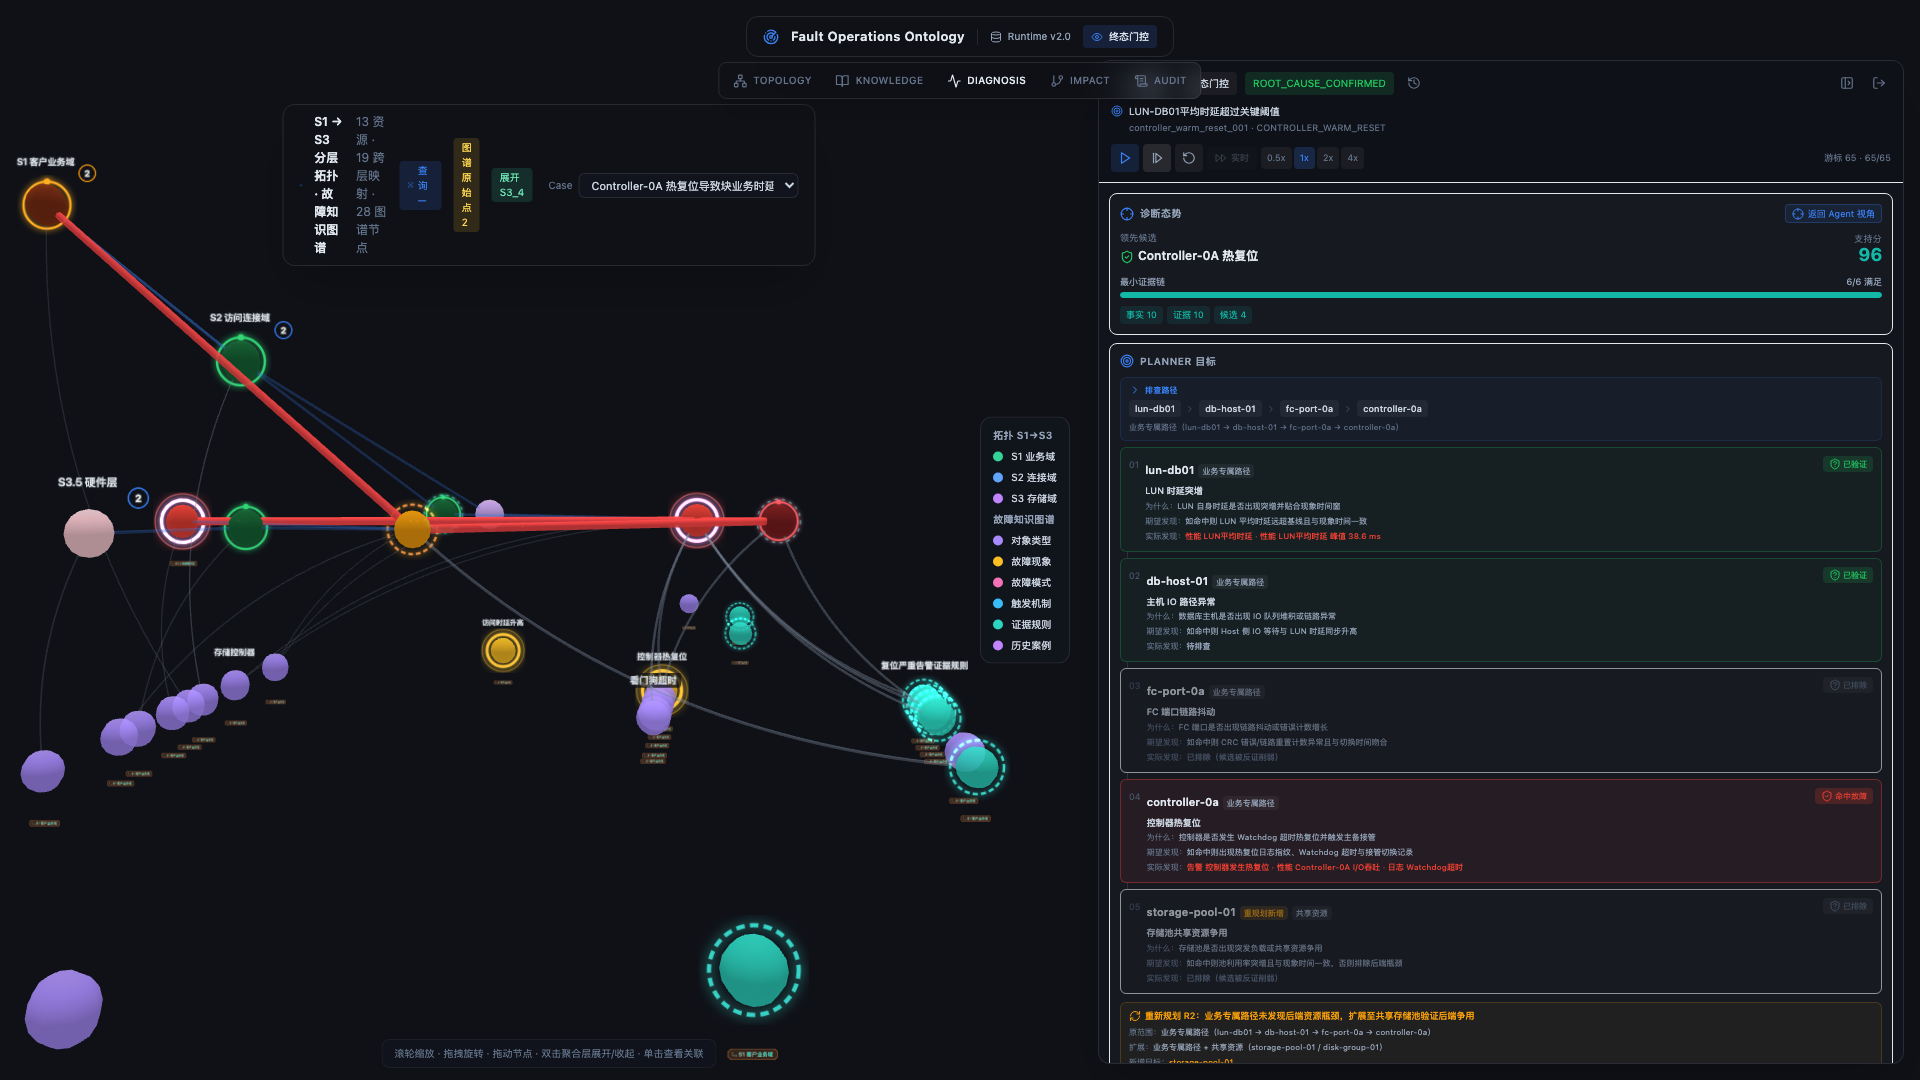
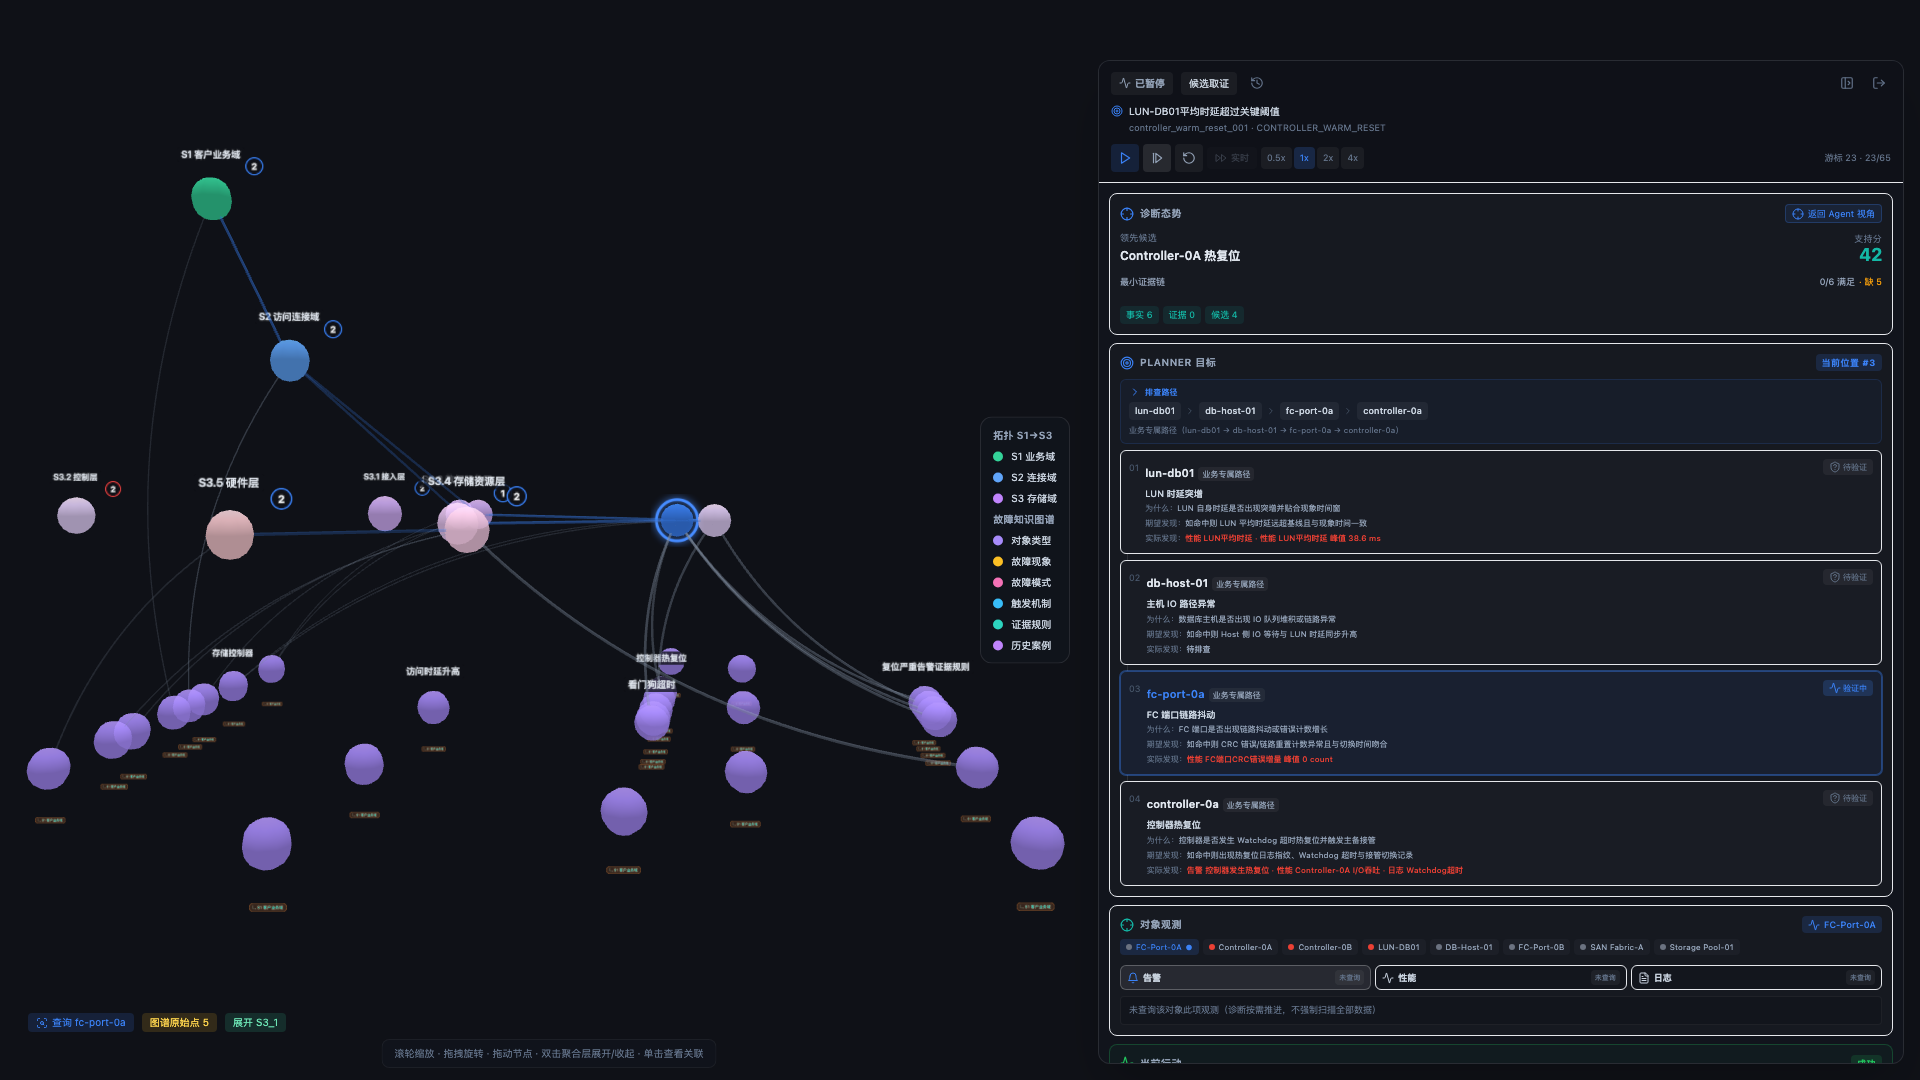
feat: issue#7 精简首屏 - 删除顶部三控件，画布顶到顶边
- 删除 Fault Operations Ontology 标题栏（ontology-header）+ 阶段标签
- 删除 Ontology Lens 五透镜切换器（LensSwitcher 组件一并移除）
- 删除画布顶部信息条 + Case 下拉；Case 改由诊断自动选择
- 扫描徽标移至左下角；画布容器顶到顶边
- 验收截图存 business-acceptance/issue7-topbar/ + e2e/issue7-topbar-clean.mjs

diff --git a/src/components/Layered3DCanvas.tsx b/src/components/Layered3DCanvas.tsx
@@ -1,6 +1,6 @@
 import { useEffect, useMemo, useRef } from 'react'
 import * as THREE from 'three'
-import { Layers, ScanSearch } from 'lucide-react'
+import { ScanSearch } from 'lucide-react'
 
 import { LensId } from '../../schemas'
 import { KNOWLEDGE_LAYERS } from '@/lib/knowledge-plane'
@@ -101,12 +101,6 @@ const SCAN_COLOR = '#22d3ee'
 export interface Layered3DCanvasProps {
   /** 分层拓扑模型（buildLayeredModelData 产物，任意 Case）。 */
   model: LayeredModelData
-  /** 当前分层 Case id。 */
-  caseId: string
-  /** 可选 Case 列表（名称取自 manifest）。 */
-  cases: Array<{ caseId: string; name: string }>
-  /** 切换 Case：重建模型 + 重置展开。 */
-  onCaseChange: (caseId: string) => void
   /** 层展开状态（域/子层 code → expanded）。 */
   expandedLayers: Partial<Record<TopoLayerCode, boolean>>
   /** 点击聚合头/双击聚合节点切换展开。 */
@@ -148,9 +142,6 @@ export interface Layered3DCanvasProps {
 export default function Layered3DCanvas(props: Layered3DCanvasProps) {
   const {
     model,
-    caseId,
-    cases,
-    onCaseChange,
     expandedLayers,
     onToggleLayer,
     aggregateContext,
@@ -655,9 +646,8 @@ export default function Layered3DCanvas(props: Layered3DCanvasProps) {
     // eslint-disable-next-line react-hooks/exhaustive-deps
   }, [])
 
-  // --- header counts ---------------------------------------------------------
+  // --- legend colors ---------------------------------------------------------
 
-  const kgCount = graph.nodes.filter((n) => n.plane === 'knowledge').length
   const layerColors = [
     { code: 'S1', name: 'S1 业务域', color: '#34d399' },
     { code: 'S2', name: 'S2 连接域', color: '#60a5fa' },
@@ -675,57 +665,34 @@ export default function Layered3DCanvas(props: Layered3DCanvasProps) {
       {/* 3D 力导向画布 */}
       <div ref={containerRef} className="absolute inset-0" />
 
-      {/* 信息条：标题 + 统计 + Case 切换 */}
-      <div className="pointer-events-none absolute left-1/2 top-[104px] z-10 -translate-x-1/2">
-        <div className="pointer-events-auto flex items-center gap-3 rounded-xl border border-white/10 bg-[#11141c]/92 px-4 py-2 text-[12px] text-[#94a3b8] shadow-2xl backdrop-blur-md">
-          <Layers className="h-4 w-4 text-status-active" />
-          <span className="font-semibold text-[#e2e8f0]">S1 → S3 分层拓扑 · 故障知识图谱</span>
-          <span className="hidden text-[#64748b] md:inline">
-            {model.nodes.length} 资源 · {graph.crossLinks.length} 跨层映射 · {kgCount} 图谱节点
+      {/* 诊断扫描态（issue#6 阶段C / issue#7 C3）：聚焦查询对象 + 图谱原始点 + 自动展开层。
+          首屏顶部控件已精简，扫描徽标移至左下角，不占画布顶部空间。 */}
+      {diagnosisScan && (
+        <div className="pointer-events-none absolute bottom-12 left-3 z-10 flex items-center gap-2">
+          <span
+            data-testid="scan-query"
+            className="flex items-center gap-1 rounded bg-status-active/15 px-2 py-0.5 text-[10px] text-status-active"
+          >
+            <ScanSearch className="h-3 w-3" />
+            查询 {diagnosisScan.active_query_object_id ?? '—'}
           </span>
-          {diagnosisScan && (
-            <>
-              <span
-                data-testid="scan-query"
-                className="flex items-center gap-1 rounded bg-status-active/15 px-2 py-0.5 text-[10px] text-status-active"
-              >
-                <ScanSearch className="h-3 w-3" />
-                查询 {diagnosisScan.active_query_object_id ?? '—'}
-              </span>
-              <span
-                data-testid="scan-kg"
-                className="flex items-center gap-1 rounded bg-amber-400/15 px-2 py-0.5 text-[10px] text-amber-300"
-              >
-                图谱原始点 {diagnosisScan.graph_entry_anchors.length}
-              </span>
-              {autoExpandedLayerRef.current && (
-                <span
-                  data-testid="scan-expand"
-                  className="flex items-center gap-1 rounded bg-emerald-400/15 px-2 py-0.5 text-[10px] text-emerald-300"
-                  title="排查推进时自动展开的聚合层"
-                >
-                  展开 {autoExpandedLayerRef.current}
-                </span>
-              )}
-            </>
-          )}
-          <label className="ml-1 flex items-center gap-1.5">
-            <span className="text-[10px] text-[#64748b]">Case</span>
-            <select
-              value={caseId}
-              onChange={(event) => onCaseChange(event.target.value)}
-              aria-label="分层拓扑 Case"
-              className="max-w-[220px] cursor-pointer rounded-md border border-white/10 bg-[#11141c] px-2 py-1 text-[11px] text-[#cbd5e1] outline-none focus:border-status-active/60"
+          <span
+            data-testid="scan-kg"
+            className="flex items-center gap-1 rounded bg-amber-400/15 px-2 py-0.5 text-[10px] text-amber-300"
+          >
+            图谱原始点 {diagnosisScan.graph_entry_anchors.length}
+          </span>
+          {autoExpandedLayerRef.current && (
+            <span
+              data-testid="scan-expand"
+              className="flex items-center gap-1 rounded bg-emerald-400/15 px-2 py-0.5 text-[10px] text-emerald-300"
+              title="排查推进时自动展开的聚合层"
             >
-              {cases.map((c) => (
-                <option key={c.caseId} value={c.caseId}>
-                  {c.name}
-                </option>
-              ))}
-            </select>
-          </label>
+              展开 {autoExpandedLayerRef.current}
+            </span>
+          )}
         </div>
-      </div>
+      )}
 
       {/* 交互提示 */}
       <div className="pointer-events-none absolute bottom-3 left-1/2 z-10 -translate-x-1/2 rounded-lg border border-white/5 bg-[#11141c]/70 px-3 py-1.5 text-[10px] text-[#64748b] backdrop-blur-sm">

diff --git a/src/App.tsx b/src/App.tsx
@@ -1,12 +1,11 @@
 import { useCallback, useEffect, useMemo, useRef, useState } from 'react'
-import { AlertTriangle, Database, Eye, Radar, X } from 'lucide-react'
+import { AlertTriangle, Radar, X } from 'lucide-react'
 
 import DiagnosisEntryButton, {
   type DiagnosisEntryPayload,
 } from '@/components/DiagnosisEntryButton'
 import Layered3DCanvas from '@/components/Layered3DCanvas'
 import LuiPanel from '@/components/LuiPanel'
-import LensSwitcher from '@/components/LensSwitcher'
 import ModelNavigator, {
   type LayerVisibility,
 } from '@/components/ModelNavigator'
@@ -27,18 +26,7 @@ import {
   type DiagnosisRuntime,
 } from './v2'
 
-const DATA_VERSION = '2.0'
 const EVENT_CADENCE_MS = 700
-
-/** 分层视图可选 Case（3 基线 + 分层演示），名称取自 manifest。 */
-const LAYERED_CASES = listCases().filter((c) =>
-  [
-    'layered_topology_demo_001',
-    'controller_warm_reset_001',
-    'noisy_neighbor_io_contention_001',
-    'remote_replication_lag_001',
-  ].includes(c.caseId),
-)
 
 // ─────────────────────────────────────────────────────────────────────────────
 // App
@@ -216,15 +204,6 @@ export default function App() {
     return () => window.clearTimeout(timer)
   }, [runtime, isPlaying, playbackSpeed])
 
-  const handleLensChange = (lens: LensId) => {
-    setActiveLens(lens)
-    setAroundRootId(null)
-    setObjectSetFilter(false)
-    if (lens === LensId.TOPOLOGY) setActivePreset('TOPOLOGY_ONLY')
-    else if (lens === LensId.KNOWLEDGE) setActivePreset('KNOWLEDGE_ONLY')
-    else setActivePreset('OVERVIEW')
-  }
-
   const startSession = (caseId: string, note: string | null) => {
     try {
       const created = createDiagnosisRuntime(caseId).advance()
@@ -346,12 +325,6 @@ export default function App() {
     setExpandedLayers((cur) => ({ ...cur, [code]: !cur[code] }))
   }
 
-  // 分层视图 Case 切换：重建分层模型并重置展开状态（issue #4）。
-  const handleChangeLayeredCase = (caseId: string) => {
-    setLayeredCaseId(caseId)
-    setExpandedLayers({})
-  }
-
   const handleSearchSelect = (id: string) => {
     setSelectedNodeId(id)
     setUserExploring(true)
@@ -382,9 +355,6 @@ export default function App() {
     : isPlaying
       ? 'LIVE'
       : 'PAUSED'
-  const phaseLabel = snapshot?.session.phase
-    ? phaseLabelOf(snapshot.session.phase)
-    : '模型探索态'
 
   // Projection store → View Models (read-only consumption of the snapshot).
   const vms = useMemo(() => {
@@ -421,9 +391,6 @@ export default function App() {
           跨层映射与 F2 红逻辑链均为 3D 连线。 */}
       <Layered3DCanvas
         model={layeredModel}
-        caseId={layeredCaseId}
-        cases={LAYERED_CASES}
-        onCaseChange={handleChangeLayeredCase}
         expandedLayers={expandedLayers}
         onToggleLayer={handleToggleLayer}
         aggregateContext={{
@@ -480,26 +447,6 @@ export default function App() {
         />
       )}
 
-      <header className="ontology-header pointer-events-none absolute left-1/2 top-4 z-40 -translate-x-1/2">
-        <div className="pointer-events-auto flex items-center gap-3 rounded-xl border border-white/10 bg-[#11141c]/92 px-4 py-2 shadow-2xl backdrop-blur-md">
-          <Radar className="h-4 w-4 text-status-active" />
-          <span className="text-[13px] font-semibold tracking-wide">
-            Fault Operations Ontology
-          </span>
-          <span className="h-4 w-px bg-white/10" />
-          <span className="flex items-center gap-1.5 text-[10px] text-[#94a3b8]">
-            <Database className="h-3 w-3" />
-            Runtime v{DATA_VERSION}
-          </span>
-          <span className="flex items-center gap-1.5 rounded bg-status-active/15 px-2 py-1 text-[10px]">
-            <Eye className="h-3 w-3 text-status-active" />
-            {phaseLabel}
-          </span>
-        </div>
-      </header>
-
-      <LensSwitcher activeLens={activeLens} onChange={handleLensChange} />
-
       {selectedObjectView && (
         <ObjectViewPanel
           view={selectedObjectView}
@@ -510,7 +457,7 @@ export default function App() {
       )}
 
       {routeError && (
-        <div className="absolute left-1/2 top-[118px] z-50 flex max-w-lg -translate-x-1/2 items-start gap-2 rounded-lg border border-status-fault/30 bg-[#24191d]/95 px-3 py-2 text-[12px] text-status-fault shadow-xl">
+        <div className="absolute left-1/2 top-4 z-50 flex max-w-lg -translate-x-1/2 items-start gap-2 rounded-lg border border-status-fault/30 bg-[#24191d]/95 px-3 py-2 text-[12px] text-status-fault shadow-xl">
           <AlertTriangle className="mt-0.5 h-4 w-4 shrink-0" />
           <span className="flex-1">{routeError}</span>
           <button type="button" onClick={() => setRouteError(null)} aria-label="关闭">
@@ -557,18 +504,4 @@ export default function App() {
       {!runtime && <DiagnosisEntryButton onStartDiagnosis={handleStartDiagnosis} />}
     </div>
   )
-}
-
-function phaseLabelOf(phase: string): string {
-  const map: Record<string, string> = {
-    INPUT_COMPLETION: '输入补全',
-    SYMPTOM_VALIDATION: '现象校验',
-    SCOPE_LOCALIZATION: '范围定位',
-    CANDIDATE_GENERATION: '候选生成',
-    CANDIDATE_EVIDENCE: '候选取证',
-    COMPETING_EXPLANATION: '竞争解释',
-    CONCLUSION_CHECK: '终态门控',
-    SUPPLEMENTARY_PLANNING: '补充规划',
-  }
-  return map[phase] ?? phase
 }

diff --git a/src/index.css b/src/index.css
@@ -27,11 +27,9 @@
 @media (max-width: 1023px) {
   .ontology-interaction-canvas,
   .ontology-navigator,
-  .ontology-lens-switcher,
   .ontology-diagnosis-panel,
   .ontology-object-view,
   .ontology-diagnosis-entry,
-  .ontology-header,
   .ontology-lui {
     display: none !important;
   }
